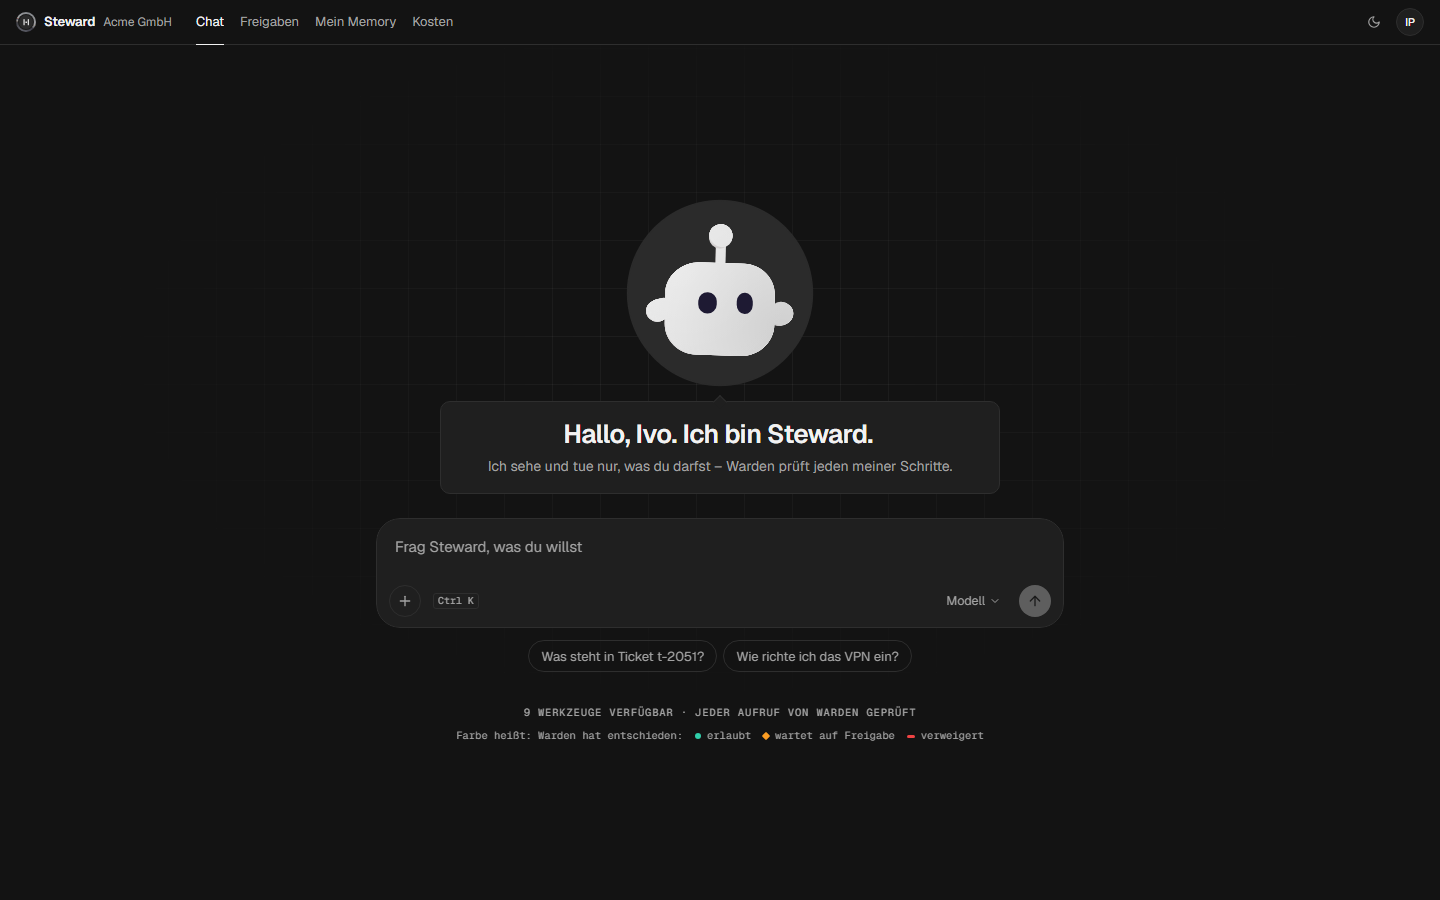
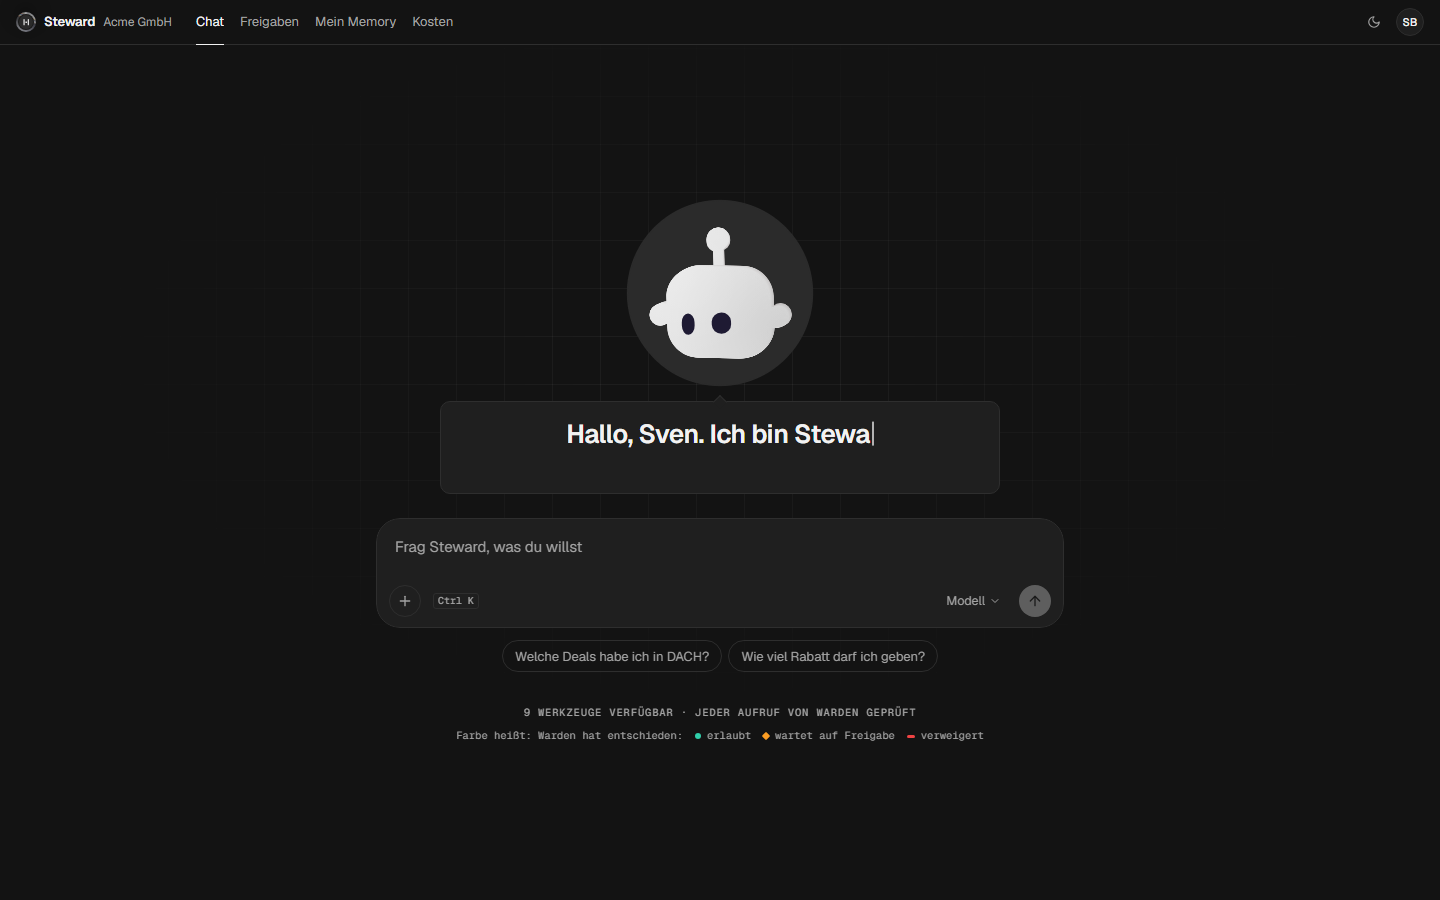
README screenshots from a real model, reproducible with SCREENSHOTS=1 npx playwright test screens

Changed region(s): [[0.3438, 0.4667, 0.6562, 0.5289], [0.3438, 0.7156, 0.6562, 0.7467], [0.4375, 0.28, 0.5312, 0.4044]]

diff --git a/ui/e2e/screens.spec.ts b/ui/e2e/screens.spec.ts
@@ -1,0 +1,97 @@
+import { expect, test, type Page } from '@playwright/test';
+
+import { ask, login, newUserPage } from './helpers';
+
+// README screenshots, taken against a running demo with a real model:
+//   steward demo --profile profiles/acme --ui ui/dist      (API key in env or credential store)
+//   SCREENSHOTS=1 npx playwright test screens
+// Skipped in normal e2e runs.
+test.skip(!process.env.SCREENSHOTS, 'set SCREENSHOTS=1 to retake the README screenshots');
+test.use({ viewport: { width: 1440, height: 900 }, deviceScaleFactor: 1 });
+test.setTimeout(240_000);
+
+const OUT = '../docs/assets/screens';
+
+async function shot(page: Page, name: string) {
+  // No toasts over the composer; every image loaded; the presence animation settled.
+  for (const close of await page.getByTestId('toast-dismiss').all()) await close.click();
+  await expect(page.getByTestId('toast-dismiss')).toHaveCount(0);
+  await expect
+    .poll(() => page.locator('img').evaluateAll((imgs) => imgs.every((i) => (i as HTMLImageElement).complete && (i as HTMLImageElement).naturalWidth > 0)))
+    .toBe(true);
+  await page.waitForTimeout(600);
+  await page.screenshot({ path: `${OUT}/${name}.png` });
+}
+
+async function finished(page: Page) {
+  await expect(page.getByTestId('turn').last()).toHaveAttribute('data-status', 'done', { timeout: 180_000 });
+}
+
+test('login', async ({ page }) => {
+  await page.goto('/');
+  await expect(page.getByTestId('login-sven')).toBeVisible();
+  await shot(page, 'login');
+});
+
+test('empty chat', async ({ page }) => {
+  await login(page, 'sven');
+  await shot(page, 'chat-empty');
+});
+
+test('cited answer from a scanned PDF', async ({ page }) => {
+  await login(page, 'ivo');
+  await ask(page, 'WireGuard meldet handshake did not complete. Was soll ich tun?');
+  await finished(page);
+  await expect(page.getByTestId('citation-card').first()).toBeVisible();
+  await shot(page, 'chat-citation');
+});
+
+test('approval: held call, the inbox, the approved result', async ({ browser }) => {
+  const sven = await newUserPage(browser, 'sven');
+  await ask(sven, 'Setz den Deal d-1007 auf 80.000 Euro');
+  const card = sven.getByTestId('approval-card').last();
+  await expect(card).toHaveAttribute('data-status', 'pending', { timeout: 120_000 });
+  const id = await card.getAttribute('data-approval-id');
+
+  const sara = await newUserPage(browser, 'sara');
+  await sara.getByRole('link', { name: /Freigaben|Approvals/ }).click();
+  const inbox = sara.locator(`[data-testid="approval-card"][data-approval-id="${id}"]`);
+  await expect(inbox).toBeVisible();
+  await inbox.click();
+  await shot(sara, 'approvals');
+  await inbox.getByRole('button', { name: /^(Freigeben|Approve)$/ }).click();
+
+  await expect(card).toHaveAttribute('data-status', 'approved');
+  await finished(sven);
+  await shot(sven, 'chat-approval');
+  await sven.context().close();
+  await sara.context().close();
+});
+
+test('delegation: research agent, action agent, approval', async ({ browser }) => {
+  const sara = await newUserPage(browser, 'sara');
+  await ask(sara, 'Recherchiere den Deal mit Fjord Logistics und lege im Projekt OPS ein Jira-Issue für das Angebot an');
+  const card = sara.getByTestId('approval-card').last();
+  await expect(card).toHaveAttribute('data-status', 'pending', { timeout: 180_000 });
+  const id = await card.getAttribute('data-approval-id');
+
+  const ines = await newUserPage(browser, 'ines');
+  await ines.getByRole('link', { name: /Freigaben|Approvals/ }).click();
+  await ines.locator(`[data-testid="approval-card"][data-approval-id="${id}"]`).getByRole('button', { name: /^(Freigeben|Approve)$/ }).click();
+
+  await finished(sara);
+  await shot(sara, 'chat-delegation');
+  await sara.context().close();
+  await ines.context().close();
+});
+
+test('console: effective rights and what-if', async ({ page }) => {
+  await login(page, 'ines');
+  await page.getByRole('link', { name: 'Console' }).click();
+  await page.getByTestId('users-table').getByRole('button', { name: /Sven Berger/ }).click();
+  await page.getByTestId('whatif-action').selectOption('tool:crm.update_deal');
+  await page.getByTestId('whatif-args').fill('{"tenant":"dach","deal_id":"d-1007","amount":80000}');
+  await page.getByTestId('whatif-run').click();
+  await expect(page.getByTestId('whatif-result')).toBeVisible();
+  await shot(page, 'console-whatif');
+});

diff --git a/ui/playwright.config.ts b/ui/playwright.config.ts
@@ -2,7 +2,9 @@ import { defineConfig, devices } from '@playwright/test';
 
 // The e2e tests run against a running `steward demo` (scripted model, dev login), which serves
 // the built UI: `npm run build`, then
-//   steward demo --profile profiles/acme --listen 127.0.0.1:8000 --ui ui/dist
+//   steward demo --profile profiles/acme --listen 127.0.0.1:8000 --ui ui/dist --offline
+// (`--offline` keeps the scripted model even when an API key is in the environment or the OS
+// credential store; screens.spec.ts is the one spec meant for a real model.)
 const baseURL = process.env.STEWARD_URL ?? 'http://127.0.0.1:8000';
 
 export default defineConfig({
